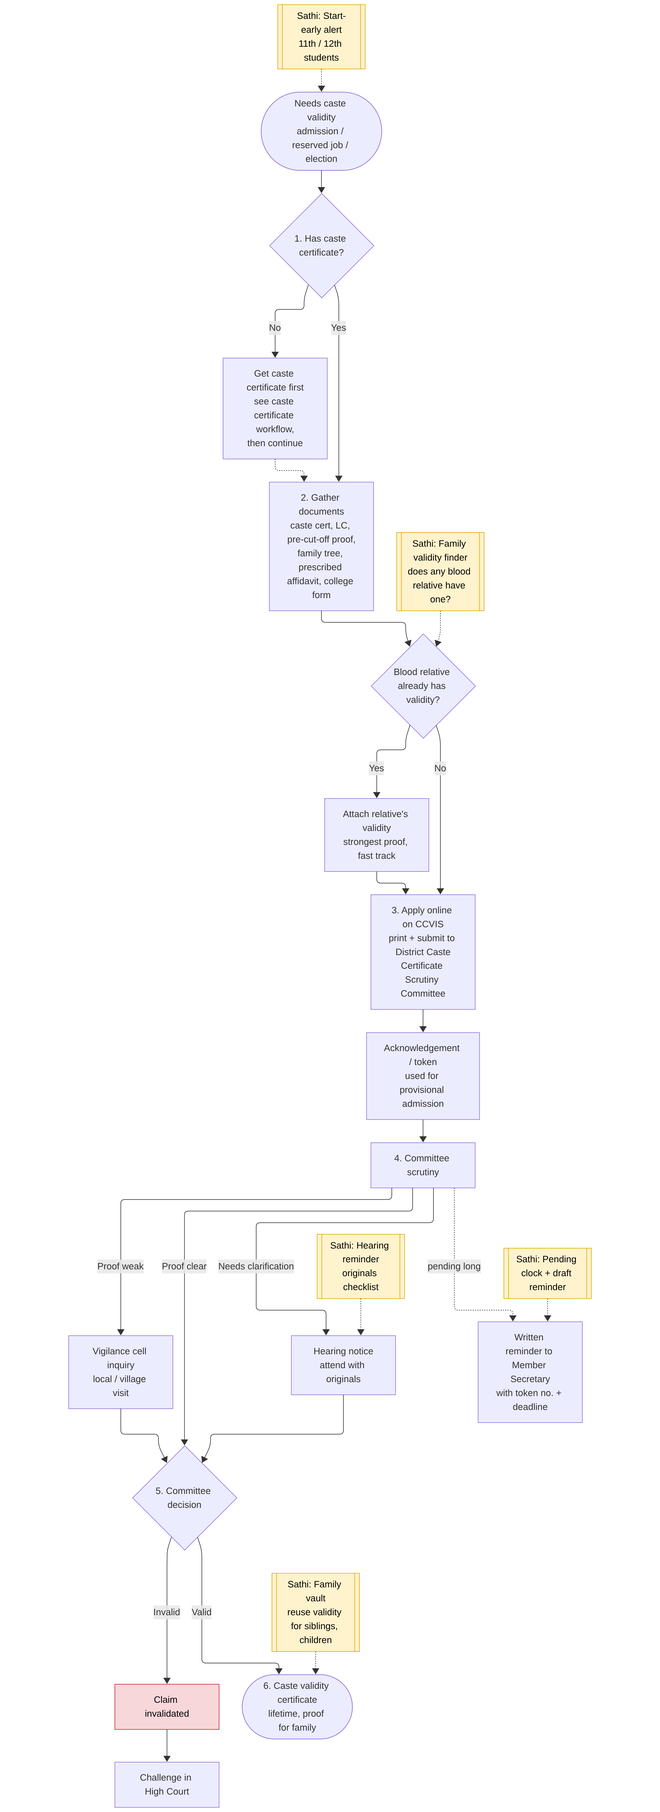
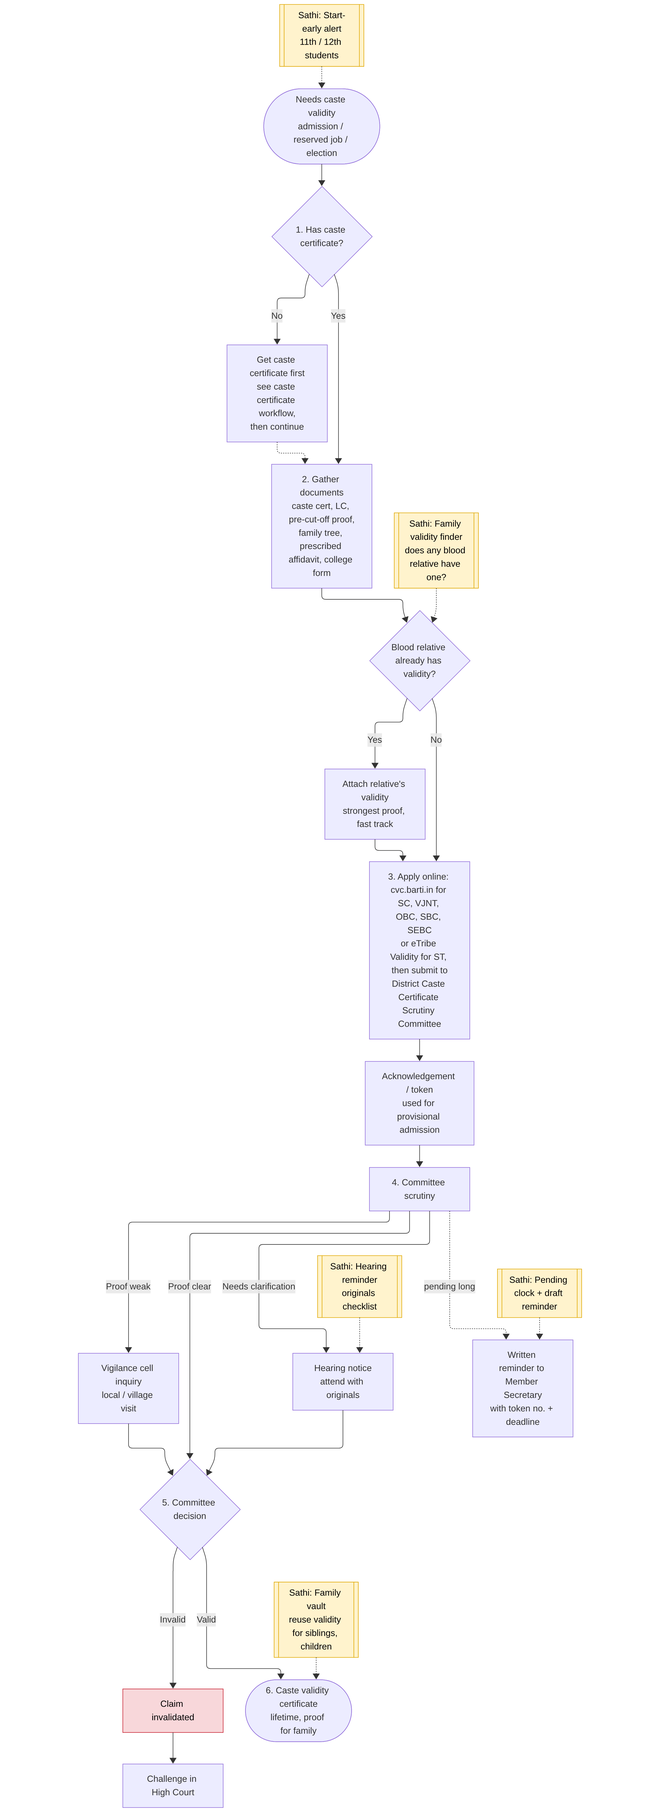
Verify batch 2 guides (caste, caste validity, NCL, ferfar) and apply corrections
Caste validity: new cvc.barti.in portal, ST via eTribe Validity, 3-month decision.
Ferfar: status via Aapli Chawadi; e-Hakk softened.
Caste / NCL: issuing officer wording softened.

Claude-Session: https://claude.ai/code/session_01DHsCyWmbgmnicfdMBb55Ki

diff --git a/docs/workflows/caste-validity-guide-mr.html b/docs/workflows/caste-validity-guide-mr.html
@@ -39,11 +39,11 @@
   <div class="step you"><div class="rail"><div class="num">1</div><div class="line"></div></div><div class="card"><div class="who">तुम्ही</div><div class="title">कधी लागते ते ओळखा</div><div class="body"><ul><li>अभियांत्रिकी, वैद्यकीय, औषधनिर्माणशास्त्र व इतर व्यावसायिक अभ्यासक्रमात राखीव जागेवर <b>प्रवेश</b></li><li>राखीव पदावर <b>सरकारी नोकरी</b></li><li>राखीव जागेवरून <b>निवडणूक</b></li></ul></div><div class="stuck"><b>सूचना:</b> विद्यार्थ्यांनो: <b>11 वी किंवा 12 वीत</b> असतानाच अर्ज करा, CET निकालानंतर नाही. याला काही महिने लागू शकतात.</div></div></div>
   <div class="step you"><div class="rail"><div class="num">2</div><div class="line"></div></div><div class="card"><div class="who">तुम्ही</div><div class="title">आधी जातीचा दाखला हवा</div><div class="body">तुमचा <b>जातीचा दाखला</b> खरा आहे का हे समिती तपासते. तो आधी तुमच्याकडे असला पाहिजे.</div><div class="stuck"><b>अडचण?</b> अजून जातीचा दाखला नाही? आधी <b>जातीचा दाखला मार्गदर्शक</b> पाहा.</div></div></div>
   <div class="step you"><div class="rail"><div class="num">3</div><div class="line"></div></div><div class="card"><div class="who">तुम्ही</div><div class="title">कागदपत्रे तयार ठेवा</div><div class="body"><ul><li>तुमचा जातीचा दाखला आणि शाळा सोडल्याचा दाखला</li><li>मानीव दिनांकापूर्वीचा <b>जुना जातीचा पुरावा</b> (जातीच्या दाखल्यासाठी वापरलेलाच)</li><li><b>वंशावळ</b> आणि विहित नमुन्यातील प्रतिज्ञापत्र</li><li>महाविद्यालयाचे बोनाफाईड / अर्ज (विद्यार्थ्यांसाठी)</li></ul></div><div class="stuck"><b>सूचना:</b> तुमच्या <b>वडिलांकडे, भावाकडे, बहिणीकडे किंवा काकांकडे</b> आधीच जात वैधता प्रमाणपत्र आहे का? ते जोडा. हा <b>सर्वात भक्कम पुरावा</b> आहे आणि प्रक्रिया खूप लवकर होते.</div></div></div>
-  <div class="step you"><div class="rail"><div class="num">4</div><div class="line"></div></div><div class="card"><div class="who">तुम्ही</div><div class="title">अर्ज करा आणि सादर करा</div><div class="body">राज्याच्या <b>जात वैधता पोर्टलवर (CCVIS)</b> ऑनलाइन अर्ज भरा, त्याची प्रिंट काढा आणि कागदपत्रांसह <b>जिल्हा जात प्रमाणपत्र पडताळणी समितीकडे</b> सादर करा (विद्यार्थी बहुतेक वेळा महाविद्यालयामार्फत सादर करतात).<br><b>पोच पावती / टोकन क्रमांक</b> जपून ठेवा.</div><div class="stuck"><b>सूचना:</b> प्रवेशासाठी महाविद्यालये सहसा <b>वैधता अर्जाची पोच पावती</b> पाहून तात्पुरता प्रवेश देतात. तुमच्या महाविद्यालयात विचारा.</div></div></div>
+  <div class="step you"><div class="rail"><div class="num">4</div><div class="line"></div></div><div class="card"><div class="who">तुम्ही</div><div class="title">अर्ज करा आणि सादर करा</div><div class="body">ऑनलाइन अर्ज करा: <b>अनुसूचित जाती, वि.जा./भ.ज., इ.मा.व., वि.मा.प्र., SEBC</b> साठी BARTI चे <b>cvc.barti.in</b> (नवीन पोर्टल, CCVIS ऐवजी); <b>अनुसूचित जमाती</b> साठी <b>ई-ट्राइब व्हॅलिडिटी</b> पोर्टल. त्याची प्रिंट काढा आणि कागदपत्रांसह <b>जिल्हा जात प्रमाणपत्र पडताळणी समितीकडे</b> सादर करा (विद्यार्थी बहुतेक वेळा महाविद्यालयामार्फत सादर करतात).<br><b>पोच पावती / टोकन क्रमांक</b> जपून ठेवा.</div><div class="stuck"><b>सूचना:</b> प्रवेशासाठी महाविद्यालये सहसा <b>वैधता अर्जाची पोच पावती</b> पाहून तात्पुरता प्रवेश देतात. तुमच्या महाविद्यालयात विचारा.</div></div></div>
   <div class="phase">अर्ज केल्यानंतर</div>
   <div class="step gov"><div class="rail"><div class="num">5</div><div class="line"></div></div><div class="card"><div class="who">पडताळणी समिती</div><div class="title">समितीकडून तपासणी</div><div class="body">समिती तुमची कागदपत्रे तपासते. जुना पुरावा कमकुवत असेल तर स्थानिक चौकशीसाठी <b>दक्षता पथक</b> पाठवू शकते, किंवा <b>सुनावणीसाठी</b> बोलावू शकते.</div><div class="stuck"><b>अडचण?</b> <b>सुनावणीची नोटीस</b> आली? ठरलेल्या तारखेला सर्व <b>मूळ कागदपत्रांसह</b> हजर राहा. सुनावणी चुकल्यास प्रकरण लांबते.</div></div></div>
   <div class="step gov"><div class="rail"><div class="num">6</div><div class="line"></div></div><div class="card"><div class="who">पडताळणी समिती</div><div class="title">समितीचा निर्णय</div><div class="body">समितीचे समाधान झाल्यास ती <b>जात वैधता प्रमाणपत्र</b> देते.</div><div class="stuck"><b>अडचण?</b> जातीचा दावा <b>अवैध</b> ठरला? या निर्णयाला <b>उच्च न्यायालयात</b> आव्हान देता येते. लवकर कायदेशीर सल्ला घ्या.</div></div></div>
   <div class="step done"><div class="rail"><div class="num">7</div></div><div class="card"><div class="who">पूर्ण</div><div class="title">वैधता प्रमाणपत्र मिळवा</div><div class="body">ते डाउनलोड करा किंवा घ्या. ते <b>आयुष्यभर</b> वैध असते.</div><div class="stuck"><b>सूचना:</b> तुमचे वैधता प्रमाणपत्र पुढे तुमच्या भाऊ, बहिणी आणि मुलांना अर्ज करताना <b>सर्वात भक्कम पुरावा</b> ठरते.</div></div></div>
-  <div class="rights"><div class="t">खूप दिवस प्रलंबित? पाठपुरावा करा.</div>टोकन क्रमांकासह जिल्हा जात प्रमाणपत्र पडताळणी समितीच्या <b>सदस्य सचिवांना लेखी स्मरणपत्र</b> द्या आणि <b>पोच</b> घ्या. प्रवेश किंवा नोकरीची अंतिम तारीख जवळ असेल तर ते लेखी नमूद करा.</div>
+  <div class="rights"><div class="t">खूप दिवस प्रलंबित? पाठपुरावा करा.</div>टोकन क्रमांकासह जिल्हा जात प्रमाणपत्र पडताळणी समितीच्या <b>सदस्य सचिवांना लेखी स्मरणपत्र</b> द्या आणि <b>पोच</b> घ्या. समितीने साधारण <b>3 महिन्यांत</b> निर्णय घ्यायला हवा. प्रवेश किंवा नोकरीची अंतिम तारीख जवळ असेल तर ते लेखी नमूद करा.</div>
   <div class="help"><b>लवकर सुरुवात करा</b>, साखळीतील हे सर्वात वेळखाऊ प्रमाणपत्र आहे: जातीचा दाखला → जात वैधता → प्रवेश / नोकरी<br><b>फक्त अधिकृत सरकारी वेबसाइट वापरा</b> · समिती "मॅनेज" करण्यासाठी कोणालाही पैसे देऊ नका</div>
 </div></body></html>

diff --git a/docs/workflows/ferfar-guide-mr.html b/docs/workflows/ferfar-guide-mr.html
@@ -37,12 +37,12 @@
   <div class="legend"><span><span class="dot" style="background:#2563eb"></span>हे तुम्ही करायचे</span><span><span class="dot" style="background:#7c3aed"></span>हे सरकार करते (तुम्ही वाट पाहा)</span><span><span class="dot" style="background:#059669"></span>७/१२ वर नाव</span></div>
   <div class="phase">सुरुवात</div>
   <div class="step you"><div class="rail"><div class="num">1</div><div class="line"></div></div><div class="card"><div class="who">तुम्ही</div><div class="title">फेरफाराचा प्रकार ओळखा</div><div class="body"><ul><li>नोंदणीकृत खरेदीखताने <b>जमीन खरेदी केली</b> → फेरफार <b>आपोआप</b> सुरू होतो. पायरी 3 वर जा.</li><li><b>वारसा</b>, <b>बक्षीसपत्र</b> किंवा <b>कौटुंबिक वाटणी</b> → <b>तुम्हाला अर्ज करावा लागेल</b>. पायरी 2 वर जा.</li></ul></div><div class="stuck"><b>सूचना:</b> जमीन खरेदी करताय? फेरफार तुमच्या दस्त नोंदणीशी जोडलेला असतो. तो "सुरू करण्यासाठी" कोणालाही पैसे देऊ नका.</div></div></div>
-  <div class="step you"><div class="rail"><div class="num">2</div><div class="line"></div></div><div class="card"><div class="who">तुम्ही</div><div class="title">कागदपत्रांसह अर्ज करा (वारसा / बक्षीस)</div><div class="body"><ul><li>मृत्यू दाखला (वारसासाठी)</li><li><b>सर्व</b> वारसांची यादी आणि त्यांचे आधार</li><li>सध्याचा 7/12 व 8-अ उतारा</li><li>वारसांबाबत स्वयंघोषणापत्र / प्रतिज्ञापत्र</li></ul>राज्याच्या ई-हक्क प्रणालीवर ऑनलाइन किंवा <b>तलाठी कार्यालयात</b> अर्ज करा.</div><div class="stuck"><b>अडचण?</b> प्रत्येक वारसाचे नाव असलेच पाहिजे. एखादा वारस सुटला तर तो नंतर हरकत घेऊन फेरफार थांबवू शकतो.</div></div></div>
+  <div class="step you"><div class="rail"><div class="num">2</div><div class="line"></div></div><div class="card"><div class="who">तुम्ही</div><div class="title">कागदपत्रांसह अर्ज करा (वारसा / बक्षीस)</div><div class="body"><ul><li>मृत्यू दाखला (वारसासाठी)</li><li><b>सर्व</b> वारसांची यादी आणि त्यांचे आधार</li><li>सध्याचा 7/12 व 8-अ उतारा</li><li>वारसांबाबत स्वयंघोषणापत्र / प्रतिज्ञापत्र</li></ul><b>तलाठी कार्यालयात</b> अर्ज करा, किंवा राज्याची ई-हक्क सेवा उपलब्ध असल्यास ऑनलाइन.</div><div class="stuck"><b>अडचण?</b> प्रत्येक वारसाचे नाव असलेच पाहिजे. एखादा वारस सुटला तर तो नंतर हरकत घेऊन फेरफार थांबवू शकतो.</div></div></div>
   <div class="phase">सरकारी प्रक्रिया</div>
   <div class="step gov"><div class="rail"><div class="num">3</div><div class="line"></div></div><div class="card"><div class="who">सरकार</div><div class="title">फेरफार नोंद तयार होते</div><div class="body">तलाठी <b>क्रमांकासह फेरफार नोंद</b> तयार करतात. खरेदीच्या बाबतीत माहिती दुय्यम निबंधक कार्यालयातून आपोआप येते.<br>तुमचा <b>फेरफार क्रमांक</b> लिहून ठेवा.</div><div class="stuck"><b>अडचण?</b> काही आठवड्यांनंतरही नोंद नाही? नोंदणीकृत दस्त क्रमांक घेऊन तलाठ्यांना भेटा.</div></div></div>
   <div class="step gov"><div class="rail"><div class="num">4</div><div class="line"></div></div><div class="card"><div class="who">सरकार</div><div class="title">संबंधितांना नोटीस</div><div class="body">विक्रेता / सर्व वारस / बँक यांना नोटीस जाते. त्यांना हरकत घेण्यासाठी <b>15 दिवस</b> मिळतात.</div><div class="stuck"><b>अडचण?</b> कोणी हरकत घेतली? हे वादाचे प्रकरण होते. मंडळ अधिकारी दोन्ही बाजू ऐकतात. कागदपत्रे तयार ठेवा. निर्णयाविरुद्ध उपविभागीय अधिकाऱ्यांकडे (SDO) अपील करता येते.</div></div></div>
   <div class="step gov"><div class="rail"><div class="num">5</div><div class="line"></div></div><div class="card"><div class="who">सरकार</div><div class="title">मंडळ अधिकाऱ्यांची मंजुरी</div><div class="body">नोटीस कालावधी संपल्यावर हरकत नसेल तर <b>मंडळ अधिकारी</b> फेरफार प्रमाणित करतात.</div><div class="stuck"><b>अडचण?</b> नामंजूर झाला? कारण वाचा, कागदपत्रे दुरुस्त करून पुन्हा अर्ज करा किंवा अपील करा.</div></div></div>
   <div class="step done"><div class="rail"><div class="num">6</div></div><div class="card"><div class="who">पूर्ण</div><div class="title">७/१२ वर तुमचे नाव</div><div class="body">आता 7/12 वर फेरफार क्रमांकासह तुमचे नाव दिसेल. <b>digitalsatbara.mahabhumi.gov.in</b> वरून <b>डिजिटल सही असलेला 7/12</b> डाउनलोड करा. तो <b>तलाठ्यांच्या शिक्क्याशिवाय वैध</b> आहे.</div></div></div>
   <div class="rights"><div class="t">नोटीस कालावधी संपला? आता वाट पाहण्याचे कारण नाही.</div>15 दिवस होऊन कोणतीही हरकत नसताना फेरफार प्रमाणित झाला नसेल, तर फेरफार क्रमांकासह <b>तहसीलदारांना लेखी अर्ज</b> द्या आणि <b>पोच</b> घ्या.</div>
-  <div class="help"><b>स्थिती तपासा:</b> महाभूमी पोर्टल (mahabhumi.gov.in) → फेरफार स्थिती (फेरफार क्रमांक)<br><b>"लवकर करण्यासाठी" पैसे देऊ नका</b>, 15 दिवसांची नोटीस हा कायदा आहे · <b>फक्त .gov.in वेबसाइट वापरा</b></div>
+  <div class="help"><b>नोटीस व स्थिती तपासा:</b> bhulekh.mahabhumi.gov.in वर <b>आपली चावडी</b> / प्रलंबित फेरफार (फेरफार क्रमांक, हरकतीची शेवटची तारीख)<br><b>"लवकर करण्यासाठी" पैसे देऊ नका</b>, 15 दिवसांची नोटीस हा कायदा आहे · <b>फक्त .gov.in वेबसाइट वापरा</b></div>
 </div></body></html>

diff --git a/docs/workflows/caste-validity-guide.html b/docs/workflows/caste-validity-guide.html
@@ -40,11 +40,11 @@
   <div class="step you"><div class="rail"><div class="num">1</div><div class="line"></div></div><div class="card"><div class="who">You</div><div class="title">Know when you need it <span class="mr">कधी लागते ते ओळखा</span></div><div class="body"><ul><li><b>Admission</b> on a reserved seat in engineering, medical, pharmacy and other professional courses</li><li><b>Government job</b> on a reserved post</li><li><b>Election</b> from a reserved seat</li></ul></div><div class="stuck"><b>Tip:</b> Students: apply in <b>11th or 12th</b>, not after the CET result. It can take months.</div></div></div>
   <div class="step you"><div class="rail"><div class="num">2</div><div class="line"></div></div><div class="card"><div class="who">You</div><div class="title">Have your caste certificate first <span class="mr">आधी जातीचा दाखला हवा</span></div><div class="body">The committee checks whether your <b>caste certificate</b> is genuine. You must already have it.</div><div class="stuck"><b>Stuck?</b> No caste certificate yet? See the <b>Caste Certificate guide</b> first.</div></div></div>
   <div class="step you"><div class="rail"><div class="num">3</div><div class="line"></div></div><div class="card"><div class="who">You</div><div class="title">Keep these papers ready <span class="mr">कागदपत्रे तयार ठेवा</span></div><div class="body"><ul><li>Your caste certificate and school leaving certificate</li><li>The <b>old proof of caste</b> before the cut-off date (same as for the caste certificate)</li><li><b>Family tree (वंशावळ)</b> and affidavit in the prescribed format</li><li>College bonafide / form (for students)</li></ul></div><div class="stuck"><b>Tip:</b> Does your <b>father, brother, sister or uncle (father's side)</b> already have a caste validity? Attach it. It is the <b>strongest proof</b> and makes the process much faster.</div></div></div>
-  <div class="step you"><div class="rail"><div class="num">4</div><div class="line"></div></div><div class="card"><div class="who">You</div><div class="title">Apply and submit <span class="mr">अर्ज करा आणि सादर करा</span></div><div class="body">Fill the form online on the state's <b>caste validity portal (CCVIS)</b>, print it, and submit it with your documents to the <b>District Caste Certificate Scrutiny Committee</b> (students often submit through their college).<br>Keep the <b>acknowledgement / token number</b> safe.</div><div class="stuck"><b>Tip:</b> For admissions, colleges usually accept the <b>acknowledgement of your validity application</b> for provisional admission. Ask your college.</div></div></div>
+  <div class="step you"><div class="rail"><div class="num">4</div><div class="line"></div></div><div class="card"><div class="who">You</div><div class="title">Apply and submit <span class="mr">अर्ज करा आणि सादर करा</span></div><div class="body">Apply online: <b>SC, VJ/NT, OBC, SBC, SEBC</b> on BARTI's <b>cvc.barti.in</b> (new portal, replaces CCVIS); <b>ST</b> on the <b>eTribe Validity</b> portal. Print and submit it with your documents to the <b>District Caste Certificate Scrutiny Committee</b> (students often submit through their college).<br>Keep the <b>acknowledgement / token number</b> safe.</div><div class="stuck"><b>Tip:</b> For admissions, colleges usually accept the <b>acknowledgement of your validity application</b> for provisional admission. Ask your college.</div></div></div>
   <div class="phase">After you apply</div>
   <div class="step gov"><div class="rail"><div class="num">5</div><div class="line"></div></div><div class="card"><div class="who">Scrutiny Committee</div><div class="title">Committee checks your case <span class="mr">समितीकडून तपासणी</span></div><div class="body">The committee examines your documents. If the old proof is weak, it may send a <b>vigilance team (दक्षता पथक)</b> to inquire locally, or call you for a <b>hearing</b>.</div><div class="stuck"><b>Stuck?</b> Got a <b>hearing notice</b>? Attend on the date with all <b>original documents</b>. Missing a hearing delays your case.</div></div></div>
   <div class="step gov"><div class="rail"><div class="num">6</div><div class="line"></div></div><div class="card"><div class="who">Scrutiny Committee</div><div class="title">Committee decides <span class="mr">समितीचा निर्णय</span></div><div class="body">If satisfied, the committee issues the <b>caste validity certificate</b>.</div><div class="stuck"><b>Stuck?</b> Caste claim <b>invalidated</b>? This decision can be challenged in the <b>High Court</b>. Get legal advice quickly.</div></div></div>
   <div class="step done"><div class="rail"><div class="num">7</div></div><div class="card"><div class="who">Done</div><div class="title">Collect your validity certificate <span class="mr">वैधता प्रमाणपत्र मिळवा</span></div><div class="body">Download or collect it. It is valid <b>for life</b>.</div><div class="stuck"><b>Tip:</b> Your validity becomes the <b>strongest proof</b> for your brothers, sisters and children when they apply.</div></div></div>
-  <div class="rights"><div class="t">Pending too long? Escalate.</div>Give a <b>written reminder to the Member Secretary</b> of the District Caste Certificate Scrutiny Committee with your token number and take an <b>acknowledgement (पोच)</b>. If an admission or job deadline is near, mention it in writing.</div>
+  <div class="rights"><div class="t">Pending too long? Escalate.</div>Give a <b>written reminder to the Member Secretary</b> of the District Caste Certificate Scrutiny Committee with your token number and take an <b>acknowledgement (पोच)</b>. The committee should normally decide within <b>about 3 months</b>. If an admission or job deadline is near, mention it in writing.</div>
   <div class="help"><b>Start early</b>, this is the slowest certificate in the chain: caste certificate → caste validity → admission / job<br><b>Use only official government websites</b> · Never pay anyone to "manage" the committee</div>
 </div></body></html>

diff --git a/docs/workflows/ferfar-guide.html b/docs/workflows/ferfar-guide.html
@@ -38,12 +38,12 @@
   <div class="legend"><span><span class="dot" style="background:#2563eb"></span>You do this</span><span><span class="dot" style="background:#7c3aed"></span>Government does this (you wait)</span><span><span class="dot" style="background:#059669"></span>Name on 7/12</span></div>
   <div class="phase">Start</div>
   <div class="step you"><div class="rail"><div class="num">1</div><div class="line"></div></div><div class="card"><div class="who">You</div><div class="title">Know your ferfar type <span class="mr">फेरफाराचा प्रकार ओळखा</span></div><div class="body"><ul><li><b>Bought land</b> with a registered sale deed → ferfar starts <b>automatically</b>. Go to step 3.</li><li><b>Inherited</b> (वारस), <b>gift</b> or <b>family partition</b> → <b>you must apply</b>. Go to step 2.</li></ul></div><div class="stuck"><b>Tip:</b> Buying land? The ferfar is linked to your registration. You do not need to pay anyone to "start" it.</div></div></div>
-  <div class="step you"><div class="rail"><div class="num">2</div><div class="line"></div></div><div class="card"><div class="who">You</div><div class="title">Apply with papers (inheritance / gift) <span class="mr">कागदपत्रांसह अर्ज करा</span></div><div class="body"><ul><li>Death certificate (for inheritance)</li><li>List of <b>all</b> legal heirs with their Aadhaar</li><li>Current 7/12 and 8A extract</li><li>Self-declaration / affidavit about the heirs</li></ul>Apply online on the state's e-Hakk system or at the <b>Talathi office</b>.</div><div class="stuck"><b>Stuck?</b> Every heir's name must be included. A missing heir can object later and stop the ferfar.</div></div></div>
+  <div class="step you"><div class="rail"><div class="num">2</div><div class="line"></div></div><div class="card"><div class="who">You</div><div class="title">Apply with papers (inheritance / gift) <span class="mr">कागदपत्रांसह अर्ज करा</span></div><div class="body"><ul><li>Death certificate (for inheritance)</li><li>List of <b>all</b> legal heirs with their Aadhaar</li><li>Current 7/12 and 8A extract</li><li>Self-declaration / affidavit about the heirs</li></ul>Apply at the <b>Talathi office</b>, or online where the state's e-Hakk service is available.</div><div class="stuck"><b>Stuck?</b> Every heir's name must be included. A missing heir can object later and stop the ferfar.</div></div></div>
   <div class="phase">Government process</div>
   <div class="step gov"><div class="rail"><div class="num">3</div><div class="line"></div></div><div class="card"><div class="who">Government</div><div class="title">Ferfar entry is created <span class="mr">फेरफार नोंद तयार होते</span></div><div class="body">The Talathi creates a <b>ferfar entry with a number</b>. For a sale, the details come automatically from the Sub-Registrar's office.<br>Note down your <b>ferfar number</b>.</div><div class="stuck"><b>Stuck?</b> No entry after a few weeks? Visit the Talathi with your registered document number.</div></div></div>
   <div class="step gov"><div class="rail"><div class="num">4</div><div class="line"></div></div><div class="card"><div class="who">Government</div><div class="title">Notice to everyone concerned <span class="mr">संबंधितांना नोटीस</span></div><div class="body">A notice goes to the seller / all heirs / bank. They get <b>15 days</b> to raise an objection (हरकत).</div><div class="stuck"><b>Stuck?</b> Someone objected? It becomes a dispute case. The Circle Officer hears both sides. Keep your papers ready. You can appeal the decision to the SDO.</div></div></div>
   <div class="step gov"><div class="rail"><div class="num">5</div><div class="line"></div></div><div class="card"><div class="who">Government</div><div class="title">Circle Officer approves <span class="mr">मंडळ अधिकाऱ्यांची मंजुरी</span></div><div class="body">After the notice period, if there is no objection, the <b>Circle Officer (मंडळ अधिकारी)</b> certifies the ferfar.</div><div class="stuck"><b>Stuck?</b> Rejected? Read the reason, fix the papers and apply again, or appeal.</div></div></div>
   <div class="step done"><div class="rail"><div class="num">6</div></div><div class="card"><div class="who">Done</div><div class="title">Your name is on the 7/12 <span class="mr">७/१२ वर तुमचे नाव</span></div><div class="body">The 7/12 now shows your name with the ferfar number. Download the <b>digitally signed 7/12</b> from <b>digitalsatbara.mahabhumi.gov.in</b>. It is valid <b>without a Talathi stamp</b>.</div></div></div>
   <div class="rights"><div class="t">Notice period over? No reason to wait.</div>If 15 days have passed with no objection and the ferfar is still not certified, give a <b>written application to the Tahsildar</b> with your ferfar number and take an <b>acknowledgement (पोच)</b>.</div>
-  <div class="help"><b>Check status:</b> Mahabhumi portal (mahabhumi.gov.in) → ferfar status (ferfar number)<br><b>Never pay to "speed up"</b>, the 15-day notice is the law · <b>Use only .gov.in websites</b></div>
+  <div class="help"><b>Check notice and status:</b> <b>Aapli Chawadi</b> / pending ferfar on bhulekh.mahabhumi.gov.in (ferfar number, objection last date)<br><b>Never pay to "speed up"</b>, the 15-day notice is the law · <b>Use only .gov.in websites</b></div>
 </div></body></html>

diff --git a/docs/workflows/ncl-certificate-guide-mr.html b/docs/workflows/ncl-certificate-guide-mr.html
@@ -42,7 +42,7 @@
   <div class="step you"><div class="rail"><div class="num">4</div><div class="line"></div></div><div class="card"><div class="who">तुम्ही</div><div class="title">अर्ज करा</div><div class="body">यापैकी कोणताही एक मार्ग:<ul><li><b>aaplesarkar.mahaonline.gov.in</b> → महसूल विभाग → नॉन-क्रिमीलेयर प्रमाणपत्र</li><li>जवळचे <b>आपले सरकार सेवा केंद्र</b>, किंवा महाविद्यालयातील शिबिर</li></ul>तुमचा <b>अर्ज क्रमांक</b> आणि दाखवलेली <b>कालमर्यादा (दिवस)</b> लिहून ठेवा.</div><div class="stuck"><b>सूचना:</b> <b>केंद्र</b> सरकारी नोकरी किंवा प्रवेशासाठी <b>केंद्राच्या नमुन्यातील</b> प्रमाणपत्र लागते. तुम्हाला कोणते हवे ते कार्यालयाला सांगा.</div></div></div>
   <div class="phase">अर्ज केल्यानंतर</div>
   <div class="step gov"><div class="rail"><div class="num">5</div><div class="line"></div></div><div class="card"><div class="who">सरकार</div><div class="title">कागदपत्रांची तपासणी</div><div class="body">तहसील / उपविभागीय कार्यालय तुमचा जातीचा दाखला आणि 3 वर्षांचे कौटुंबिक उत्पन्न तपासते.</div><div class="stuck"><b>अडचण?</b> अर्ज <b>परत पाठवला</b> (Sent back) असे दिसले? बहुतेक वेळा एखाद्या वर्षाचा उत्पन्नाचा पुरावा नसतो किंवा अस्पष्ट असतो. तो अपलोड करून पुन्हा सादर करा. <b>कार्यालयात जाण्याची गरज नाही.</b></div></div></div>
-  <div class="step gov"><div class="rail"><div class="num">6</div><div class="line"></div></div><div class="card"><div class="who">सरकार</div><div class="title">उपविभागीय अधिकाऱ्यांची मंजुरी</div><div class="body"><b>उपविभागीय अधिकारी (SDO)</b> मंजुरी देऊन <b>डिजिटल सही</b> करतात.</div></div></div>
+  <div class="step gov"><div class="rail"><div class="num">6</div><div class="line"></div></div><div class="card"><div class="who">सरकार</div><div class="title">उपविभागीय अधिकाऱ्यांची मंजुरी</div><div class="body"><b>उपविभागीय अधिकारी (SDO)</b> किंवा तुमच्या तालुक्यातील सक्षम अधिकारी मंजुरी देऊन <b>डिजिटल सही</b> करतात.</div></div></div>
   <div class="step done"><div class="rail"><div class="num">7</div></div><div class="card"><div class="who">पूर्ण</div><div class="title">प्रमाणपत्र डाउनलोड करा</div><div class="body">आपले सरकार वर लॉगिन करून डाउनलोड करा. त्यावर छापलेली <b>वैधता तारीख</b> तपासा.</div><div class="stuck"><b>अडचण?</b> जातीच्या दाखल्याप्रमाणे नाही, नॉन-क्रिमीलेयरची <b>मुदत संपते</b>. तारीख लिहून ठेवा आणि प्रवेश किंवा नोकरीच्या अर्जा<b>पूर्वी</b> नूतनीकरण करा.</div></div></div>
   <div class="rights"><div class="t">उशीर झाला? हा तुमचा हक्क आहे.</div>कालमर्यादा संपली असेल तर <b>महाराष्ट्र लोकसेवा हक्क अधिनियम, 2015</b> नुसार अर्ज क्रमांक वापरून आपले सरकार वर <b>प्रथम अपील</b> करता येते.</div>
   <div class="help"><b>मुदत संपण्यापूर्वी नूतनीकरण करा</b> · राज्य आणि केंद्राचे नमुने वेगळे आहेत<br><b>स्थिती तपासा:</b> आपले सरकार → Track your application · <b>फक्त .gov.in वेबसाइट वापरा</b></div>

diff --git a/docs/workflows/caste-certificate-guide-mr.html b/docs/workflows/caste-certificate-guide-mr.html
@@ -42,7 +42,7 @@
   <div class="step you"><div class="rail"><div class="num">4</div><div class="line"></div></div><div class="card"><div class="who">तुम्ही</div><div class="title">अर्ज करा</div><div class="body">यापैकी कोणताही एक मार्ग:<ul><li><b>aaplesarkar.mahaonline.gov.in</b> → महसूल विभाग → जातीचा दाखला</li><li>जवळचे <b>आपले सरकार सेवा केंद्र</b>, किंवा शाळा / महाविद्यालयातील विशेष शिबिर</li></ul>तुमचा <b>अर्ज क्रमांक</b> आणि दाखवलेली <b>कालमर्यादा (दिवस)</b> लिहून ठेवा.</div><div class="stuck"><b>सूचना:</b> फक्त ठरलेली फी भरा आणि पावती घ्या. जुने कागद "जुळवून देण्यासाठी" एजंटला पैसे देऊ नका.</div></div></div>
   <div class="phase">अर्ज केल्यानंतर</div>
   <div class="step gov"><div class="rail"><div class="num">5</div><div class="line"></div></div><div class="card"><div class="who">सरकार</div><div class="title">कागदपत्रांची तपासणी</div><div class="body">तहसील / उपविभागीय कार्यालय तुमचा जुना पुरावा आणि वंशावळ तपासते. स्थानिक चौकशी होऊ शकते.</div><div class="stuck"><b>अडचण?</b> अर्ज <b>परत पाठवला</b> (Sent back) असे दिसले? बहुतेक वेळा जुना पुरावा किंवा वंशावळ स्पष्ट नसते. स्पष्ट प्रत किंवा अधिक कागदपत्र अपलोड करून पुन्हा सादर करा.</div></div></div>
-  <div class="step gov"><div class="rail"><div class="num">6</div><div class="line"></div></div><div class="card"><div class="who">सरकार</div><div class="title">उपविभागीय अधिकाऱ्यांची मंजुरी</div><div class="body"><b>उपविभागीय अधिकारी (SDO)</b> मंजुरी देऊन <b>डिजिटल सही</b> करतात.</div></div></div>
+  <div class="step gov"><div class="rail"><div class="num">6</div><div class="line"></div></div><div class="card"><div class="who">सरकार</div><div class="title">उपविभागीय अधिकाऱ्यांची मंजुरी</div><div class="body"><b>उपविभागीय अधिकारी (SDO)</b> किंवा तुमच्या तालुक्यातील सक्षम अधिकारी मंजुरी देऊन <b>डिजिटल सही</b> करतात.</div></div></div>
   <div class="step done"><div class="rail"><div class="num">7</div></div><div class="card"><div class="who">पूर्ण</div><div class="title">दाखला डाउनलोड करा</div><div class="body">आपले सरकार वर लॉगिन करून दाखला डाउनलोड करा. त्यावर <b>डिजिटल सही</b> असते आणि त्याची <b>मुदत संपत नाही</b>. तो जपून ठेवा.</div><div class="stuck"><b>सूचना:</b> तुमचा दाखला पुढे तुमच्या <b>भाऊ, बहिणी आणि मुलांना</b> जात सिद्ध करण्यासाठी उपयोगी पडतो.</div></div></div>
   <div class="rights"><div class="t">उशीर झाला? हा तुमचा हक्क आहे.</div>कालमर्यादा संपली असेल तर <b>महाराष्ट्र लोकसेवा हक्क अधिनियम, 2015</b> नुसार अर्ज क्रमांक वापरून आपले सरकार वर <b>प्रथम अपील</b> करता येते.</div>
   <div class="help"><b>पुढे:</b> अभ्यासक्रम किंवा नोकरीसाठी लागत असल्यास <b>जात वैधता प्रमाणपत्रासाठी</b> लवकर अर्ज करा, त्याला वेळ लागतो<br><b>स्थिती तपासा:</b> आपले सरकार → Track your application · <b>फक्त .gov.in वेबसाइट वापरा</b></div>

diff --git a/docs/workflows/ncl-certificate-guide.html b/docs/workflows/ncl-certificate-guide.html
@@ -43,7 +43,7 @@
   <div class="step you"><div class="rail"><div class="num">4</div><div class="line"></div></div><div class="card"><div class="who">You</div><div class="title">Apply <span class="mr">अर्ज करा</span></div><div class="body">Choose any one:<ul><li><b>aaplesarkar.mahaonline.gov.in</b> → Revenue Department → Non-Creamy Layer Certificate</li><li>Nearest <b>Aaple Sarkar Seva Kendra</b>, or a camp at your college</li></ul>Note your <b>Application ID</b> and the <b>time limit (days)</b> shown.</div><div class="stuck"><b>Tip:</b> For <b>central</b> government jobs or admissions you need the <b>central-format</b> NCL. Tell the office which one you need.</div></div></div>
   <div class="phase">After you apply</div>
   <div class="step gov"><div class="rail"><div class="num">5</div><div class="line"></div></div><div class="card"><div class="who">Government</div><div class="title">Your papers are checked <span class="mr">कागदपत्रांची तपासणी</span></div><div class="body">The Tahsil / SDO office checks your caste certificate and 3 years of family income.</div><div class="stuck"><b>Stuck?</b> Status says <b>sent back</b>? Usually one year's income proof is missing or unclear. Upload it and resubmit. <b>No visit needed.</b></div></div></div>
-  <div class="step gov"><div class="rail"><div class="num">6</div><div class="line"></div></div><div class="card"><div class="who">Government</div><div class="title">SDO approves <span class="mr">उपविभागीय अधिकाऱ्यांची मंजुरी</span></div><div class="body">The <b>Sub-Divisional Officer (SDO)</b> approves and <b>signs digitally</b>.</div></div></div>
+  <div class="step gov"><div class="rail"><div class="num">6</div><div class="line"></div></div><div class="card"><div class="who">Government</div><div class="title">SDO approves <span class="mr">उपविभागीय अधिकाऱ्यांची मंजुरी</span></div><div class="body">The <b>Sub-Divisional Officer (SDO)</b>, or the competent officer in your taluka, approves and <b>signs digitally</b>.</div></div></div>
   <div class="step done"><div class="rail"><div class="num">7</div></div><div class="card"><div class="who">Done</div><div class="title">Download your certificate <span class="mr">प्रमाणपत्र डाउनलोड करा</span></div><div class="body">Log in to Aaple Sarkar and download it. Check the <b>validity date</b> printed on it.</div><div class="stuck"><b>Stuck?</b> Unlike the caste certificate, NCL <b>expires</b>. Note the date and renew <b>before</b> admission or job forms.</div></div></div>
   <div class="rights"><div class="t">Late? It's your right.</div>If the time limit has passed, you can file a <b>First Appeal</b> on Aaple Sarkar with your Application ID, under the <b>Maharashtra Right to Public Services Act, 2015</b>.</div>
   <div class="help"><b>Renew before it expires</b> · State and central formats are different<br><b>Check status:</b> Aaple Sarkar → Track your application · <b>Use only .gov.in websites</b></div>

diff --git a/docs/workflows/caste-certificate-guide.html b/docs/workflows/caste-certificate-guide.html
@@ -43,7 +43,7 @@
   <div class="step you"><div class="rail"><div class="num">4</div><div class="line"></div></div><div class="card"><div class="who">You</div><div class="title">Apply <span class="mr">अर्ज करा</span></div><div class="body">Choose any one:<ul><li><b>aaplesarkar.mahaonline.gov.in</b> → Revenue Department → Caste Certificate</li><li>Nearest <b>Aaple Sarkar Seva Kendra</b>, or a special camp at your school / college</li></ul>Note your <b>Application ID</b> and the <b>time limit (days)</b> shown.</div><div class="stuck"><b>Tip:</b> Pay only the fixed fee and take a receipt. Never pay an agent to "arrange" old documents.</div></div></div>
   <div class="phase">After you apply</div>
   <div class="step gov"><div class="rail"><div class="num">5</div><div class="line"></div></div><div class="card"><div class="who">Government</div><div class="title">Your papers are checked <span class="mr">कागदपत्रांची तपासणी</span></div><div class="body">The Tahsil / SDO office checks your old proof and family tree. A local inquiry may be done.</div><div class="stuck"><b>Stuck?</b> Status says <b>sent back</b>? Usually the old proof or family tree is unclear. Upload a clearer copy or an extra document and resubmit.</div></div></div>
-  <div class="step gov"><div class="rail"><div class="num">6</div><div class="line"></div></div><div class="card"><div class="who">Government</div><div class="title">SDO approves <span class="mr">उपविभागीय अधिकाऱ्यांची मंजुरी</span></div><div class="body">The <b>Sub-Divisional Officer (SDO)</b> approves and <b>signs digitally</b>.</div></div></div>
+  <div class="step gov"><div class="rail"><div class="num">6</div><div class="line"></div></div><div class="card"><div class="who">Government</div><div class="title">SDO approves <span class="mr">उपविभागीय अधिकाऱ्यांची मंजुरी</span></div><div class="body">The <b>Sub-Divisional Officer (SDO)</b>, or the competent officer in your taluka, approves and <b>signs digitally</b>.</div></div></div>
   <div class="step done"><div class="rail"><div class="num">7</div></div><div class="card"><div class="who">Done</div><div class="title">Download your certificate <span class="mr">दाखला डाउनलोड करा</span></div><div class="body">Log in to Aaple Sarkar and download it. It is <b>digitally signed</b> and does <b>not expire</b>. Keep it safe.</div><div class="stuck"><b>Tip:</b> Your certificate later helps your <b>brothers, sisters and children</b> prove their caste.</div></div></div>
   <div class="rights"><div class="t">Late? It's your right.</div>If the time limit has passed, you can file a <b>First Appeal</b> on Aaple Sarkar with your Application ID, under the <b>Maharashtra Right to Public Services Act, 2015</b>.</div>
   <div class="help"><b>Next:</b> apply for <b>Caste Validity</b> if your course or job needs it, early, as it takes time<br><b>Check status:</b> Aaple Sarkar → Track your application · <b>Use only .gov.in websites</b></div>

diff --git a/docs/workflows/caste_validity_content.py b/docs/workflows/caste_validity_content.py
@@ -24,7 +24,7 @@ T = {
     "<ul><li>Your caste certificate and school leaving certificate</li><li>The <b>old proof of caste</b> before the cut-off date (same as for the caste certificate)</li><li><b>Family tree (वंशावळ)</b> and affidavit in the prescribed format</li><li>College bonafide / form (for students)</li></ul>",
     ("tip", "Does your <b>father, brother, sister or uncle (father's side)</b> already have a caste validity? Attach it. It is the <b>strongest proof</b> and makes the process much faster.")),
    ("you", "Apply and submit", "अर्ज करा आणि सादर करा",
-    "Fill the form online on the state's <b>caste validity portal (CCVIS)</b>, print it, and submit it with your documents to the <b>District Caste Certificate Scrutiny Committee</b> (students often submit through their college).<br>Keep the <b>acknowledgement / token number</b> safe.",
+    "Apply online: <b>SC, VJ/NT, OBC, SBC, SEBC</b> on BARTI's <b>cvc.barti.in</b> (new portal, replaces CCVIS); <b>ST</b> on the <b>eTribe Validity</b> portal. Print and submit it with your documents to the <b>District Caste Certificate Scrutiny Committee</b> (students often submit through their college).<br>Keep the <b>acknowledgement / token number</b> safe.",
     ("tip", "For admissions, colleges usually accept the <b>acknowledgement of your validity application</b> for provisional admission. Ask your college.")),
    ("gov", "Committee checks your case", "समितीकडून तपासणी",
     "The committee examines your documents. If the old proof is weak, it may send a <b>vigilance team (दक्षता पथक)</b> to inquire locally, or call you for a <b>hearing</b>.",
@@ -37,7 +37,7 @@ T = {
     ("tip", "Your validity becomes the <b>strongest proof</b> for your brothers, sisters and children when they apply.")),
   ],
   rights_t="Pending too long? Escalate.",
-  rights="Give a <b>written reminder to the Member Secretary</b> of the District Caste Certificate Scrutiny Committee with your token number and take an <b>acknowledgement (पोच)</b>. If an admission or job deadline is near, mention it in writing.",
+  rights="Give a <b>written reminder to the Member Secretary</b> of the District Caste Certificate Scrutiny Committee with your token number and take an <b>acknowledgement (पोच)</b>. The committee should normally decide within <b>about 3 months</b>. If an admission or job deadline is near, mention it in writing.",
   help="<b>Start early</b>, this is the slowest certificate in the chain: caste certificate → caste validity → admission / job<br><b>Use only official government websites</b> · Never pay anyone to \"manage\" the committee",
  ),
  "mr": dict(
@@ -60,7 +60,7 @@ T = {
     "<ul><li>तुमचा जातीचा दाखला आणि शाळा सोडल्याचा दाखला</li><li>मानीव दिनांकापूर्वीचा <b>जुना जातीचा पुरावा</b> (जातीच्या दाखल्यासाठी वापरलेलाच)</li><li><b>वंशावळ</b> आणि विहित नमुन्यातील प्रतिज्ञापत्र</li><li>महाविद्यालयाचे बोनाफाईड / अर्ज (विद्यार्थ्यांसाठी)</li></ul>",
     ("tip", "तुमच्या <b>वडिलांकडे, भावाकडे, बहिणीकडे किंवा काकांकडे</b> आधीच जात वैधता प्रमाणपत्र आहे का? ते जोडा. हा <b>सर्वात भक्कम पुरावा</b> आहे आणि प्रक्रिया खूप लवकर होते.")),
    ("you", "अर्ज करा आणि सादर करा", None,
-    "राज्याच्या <b>जात वैधता पोर्टलवर (CCVIS)</b> ऑनलाइन अर्ज भरा, त्याची प्रिंट काढा आणि कागदपत्रांसह <b>जिल्हा जात प्रमाणपत्र पडताळणी समितीकडे</b> सादर करा (विद्यार्थी बहुतेक वेळा महाविद्यालयामार्फत सादर करतात).<br><b>पोच पावती / टोकन क्रमांक</b> जपून ठेवा.",
+    "ऑनलाइन अर्ज करा: <b>अनुसूचित जाती, वि.जा./भ.ज., इ.मा.व., वि.मा.प्र., SEBC</b> साठी BARTI चे <b>cvc.barti.in</b> (नवीन पोर्टल, CCVIS ऐवजी); <b>अनुसूचित जमाती</b> साठी <b>ई-ट्राइब व्हॅलिडिटी</b> पोर्टल. त्याची प्रिंट काढा आणि कागदपत्रांसह <b>जिल्हा जात प्रमाणपत्र पडताळणी समितीकडे</b> सादर करा (विद्यार्थी बहुतेक वेळा महाविद्यालयामार्फत सादर करतात).<br><b>पोच पावती / टोकन क्रमांक</b> जपून ठेवा.",
     ("tip", "प्रवेशासाठी महाविद्यालये सहसा <b>वैधता अर्जाची पोच पावती</b> पाहून तात्पुरता प्रवेश देतात. तुमच्या महाविद्यालयात विचारा.")),
    ("gov", "समितीकडून तपासणी", None,
     "समिती तुमची कागदपत्रे तपासते. जुना पुरावा कमकुवत असेल तर स्थानिक चौकशीसाठी <b>दक्षता पथक</b> पाठवू शकते, किंवा <b>सुनावणीसाठी</b> बोलावू शकते.",
@@ -73,7 +73,7 @@ T = {
     ("tip", "तुमचे वैधता प्रमाणपत्र पुढे तुमच्या भाऊ, बहिणी आणि मुलांना अर्ज करताना <b>सर्वात भक्कम पुरावा</b> ठरते.")),
   ],
   rights_t="खूप दिवस प्रलंबित? पाठपुरावा करा.",
-  rights="टोकन क्रमांकासह जिल्हा जात प्रमाणपत्र पडताळणी समितीच्या <b>सदस्य सचिवांना लेखी स्मरणपत्र</b> द्या आणि <b>पोच</b> घ्या. प्रवेश किंवा नोकरीची अंतिम तारीख जवळ असेल तर ते लेखी नमूद करा.",
+  rights="टोकन क्रमांकासह जिल्हा जात प्रमाणपत्र पडताळणी समितीच्या <b>सदस्य सचिवांना लेखी स्मरणपत्र</b> द्या आणि <b>पोच</b> घ्या. समितीने साधारण <b>3 महिन्यांत</b> निर्णय घ्यायला हवा. प्रवेश किंवा नोकरीची अंतिम तारीख जवळ असेल तर ते लेखी नमूद करा.",
   help="<b>लवकर सुरुवात करा</b>, साखळीतील हे सर्वात वेळखाऊ प्रमाणपत्र आहे: जातीचा दाखला → जात वैधता → प्रवेश / नोकरी<br><b>फक्त अधिकृत सरकारी वेबसाइट वापरा</b> · समिती \"मॅनेज\" करण्यासाठी कोणालाही पैसे देऊ नका",
  ),
 }

diff --git a/docs/workflows/ferfar_content.py b/docs/workflows/ferfar_content.py
@@ -18,7 +18,7 @@ T = {
     "<ul><li><b>Bought land</b> with a registered sale deed → ferfar starts <b>automatically</b>. Go to step 3.</li><li><b>Inherited</b> (वारस), <b>gift</b> or <b>family partition</b> → <b>you must apply</b>. Go to step 2.</li></ul>",
     ("tip", "Buying land? The ferfar is linked to your registration. You do not need to pay anyone to \"start\" it.")),
    ("you", "Apply with papers (inheritance / gift)", "कागदपत्रांसह अर्ज करा",
-    "<ul><li>Death certificate (for inheritance)</li><li>List of <b>all</b> legal heirs with their Aadhaar</li><li>Current 7/12 and 8A extract</li><li>Self-declaration / affidavit about the heirs</li></ul>Apply online on the state's e-Hakk system or at the <b>Talathi office</b>.",
+    "<ul><li>Death certificate (for inheritance)</li><li>List of <b>all</b> legal heirs with their Aadhaar</li><li>Current 7/12 and 8A extract</li><li>Self-declaration / affidavit about the heirs</li></ul>Apply at the <b>Talathi office</b>, or online where the state's e-Hakk service is available.",
     ("stuck", "Every heir's name must be included. A missing heir can object later and stop the ferfar.")),
    ("gov", "Ferfar entry is created", "फेरफार नोंद तयार होते",
     "The Talathi creates a <b>ferfar entry with a number</b>. For a sale, the details come automatically from the Sub-Registrar's office.<br>Note down your <b>ferfar number</b>.",
@@ -34,7 +34,7 @@ T = {
   ],
   rights_t="Notice period over? No reason to wait.",
   rights="If 15 days have passed with no objection and the ferfar is still not certified, give a <b>written application to the Tahsildar</b> with your ferfar number and take an <b>acknowledgement (पोच)</b>.",
-  help="<b>Check status:</b> Mahabhumi portal (mahabhumi.gov.in) → ferfar status (ferfar number)<br><b>Never pay to \"speed up\"</b>, the 15-day notice is the law · <b>Use only .gov.in websites</b>",
+  help="<b>Check notice and status:</b> <b>Aapli Chawadi</b> / pending ferfar on bhulekh.mahabhumi.gov.in (ferfar number, objection last date)<br><b>Never pay to \"speed up\"</b>, the 15-day notice is the law · <b>Use only .gov.in websites</b>",
  ),
  "mr": dict(
   lang="mr", font="'Noto Sans Devanagari','Noto Sans','FreeSans',sans-serif",
@@ -50,7 +50,7 @@ T = {
     "<ul><li>नोंदणीकृत खरेदीखताने <b>जमीन खरेदी केली</b> → फेरफार <b>आपोआप</b> सुरू होतो. पायरी 3 वर जा.</li><li><b>वारसा</b>, <b>बक्षीसपत्र</b> किंवा <b>कौटुंबिक वाटणी</b> → <b>तुम्हाला अर्ज करावा लागेल</b>. पायरी 2 वर जा.</li></ul>",
     ("tip", "जमीन खरेदी करताय? फेरफार तुमच्या दस्त नोंदणीशी जोडलेला असतो. तो \"सुरू करण्यासाठी\" कोणालाही पैसे देऊ नका.")),
    ("you", "कागदपत्रांसह अर्ज करा (वारसा / बक्षीस)", None,
-    "<ul><li>मृत्यू दाखला (वारसासाठी)</li><li><b>सर्व</b> वारसांची यादी आणि त्यांचे आधार</li><li>सध्याचा 7/12 व 8-अ उतारा</li><li>वारसांबाबत स्वयंघोषणापत्र / प्रतिज्ञापत्र</li></ul>राज्याच्या ई-हक्क प्रणालीवर ऑनलाइन किंवा <b>तलाठी कार्यालयात</b> अर्ज करा.",
+    "<ul><li>मृत्यू दाखला (वारसासाठी)</li><li><b>सर्व</b> वारसांची यादी आणि त्यांचे आधार</li><li>सध्याचा 7/12 व 8-अ उतारा</li><li>वारसांबाबत स्वयंघोषणापत्र / प्रतिज्ञापत्र</li></ul><b>तलाठी कार्यालयात</b> अर्ज करा, किंवा राज्याची ई-हक्क सेवा उपलब्ध असल्यास ऑनलाइन.",
     ("stuck", "प्रत्येक वारसाचे नाव असलेच पाहिजे. एखादा वारस सुटला तर तो नंतर हरकत घेऊन फेरफार थांबवू शकतो.")),
    ("gov", "फेरफार नोंद तयार होते", None,
     "तलाठी <b>क्रमांकासह फेरफार नोंद</b> तयार करतात. खरेदीच्या बाबतीत माहिती दुय्यम निबंधक कार्यालयातून आपोआप येते.<br>तुमचा <b>फेरफार क्रमांक</b> लिहून ठेवा.",
@@ -66,6 +66,6 @@ T = {
   ],
   rights_t="नोटीस कालावधी संपला? आता वाट पाहण्याचे कारण नाही.",
   rights="15 दिवस होऊन कोणतीही हरकत नसताना फेरफार प्रमाणित झाला नसेल, तर फेरफार क्रमांकासह <b>तहसीलदारांना लेखी अर्ज</b> द्या आणि <b>पोच</b> घ्या.",
-  help="<b>स्थिती तपासा:</b> महाभूमी पोर्टल (mahabhumi.gov.in) → फेरफार स्थिती (फेरफार क्रमांक)<br><b>\"लवकर करण्यासाठी\" पैसे देऊ नका</b>, 15 दिवसांची नोटीस हा कायदा आहे · <b>फक्त .gov.in वेबसाइट वापरा</b>",
+  help="<b>नोटीस व स्थिती तपासा:</b> bhulekh.mahabhumi.gov.in वर <b>आपली चावडी</b> / प्रलंबित फेरफार (फेरफार क्रमांक, हरकतीची शेवटची तारीख)<br><b>\"लवकर करण्यासाठी\" पैसे देऊ नका</b>, 15 दिवसांची नोटीस हा कायदा आहे · <b>फक्त .gov.in वेबसाइट वापरा</b>",
  ),
 }

diff --git a/docs/workflows/ncl_certificate_content.py b/docs/workflows/ncl_certificate_content.py
@@ -29,7 +29,7 @@ T = {
     "The Tahsil / SDO office checks your caste certificate and 3 years of family income.",
     ("stuck", "Status says <b>sent back</b>? Usually one year's income proof is missing or unclear. Upload it and resubmit. <b>No visit needed.</b>")),
    ("gov", "SDO approves", "उपविभागीय अधिकाऱ्यांची मंजुरी",
-    "The <b>Sub-Divisional Officer (SDO)</b> approves and <b>signs digitally</b>.", None),
+    "The <b>Sub-Divisional Officer (SDO)</b>, or the competent officer in your taluka, approves and <b>signs digitally</b>.", None),
    ("done", "Download your certificate", "प्रमाणपत्र डाउनलोड करा",
     "Log in to Aaple Sarkar and download it. Check the <b>validity date</b> printed on it.",
     ("stuck", "Unlike the caste certificate, NCL <b>expires</b>. Note the date and renew <b>before</b> admission or job forms.")),
@@ -63,7 +63,7 @@ T = {
     "तहसील / उपविभागीय कार्यालय तुमचा जातीचा दाखला आणि 3 वर्षांचे कौटुंबिक उत्पन्न तपासते.",
     ("stuck", "अर्ज <b>परत पाठवला</b> (Sent back) असे दिसले? बहुतेक वेळा एखाद्या वर्षाचा उत्पन्नाचा पुरावा नसतो किंवा अस्पष्ट असतो. तो अपलोड करून पुन्हा सादर करा. <b>कार्यालयात जाण्याची गरज नाही.</b>")),
    ("gov", "उपविभागीय अधिकाऱ्यांची मंजुरी", None,
-    "<b>उपविभागीय अधिकारी (SDO)</b> मंजुरी देऊन <b>डिजिटल सही</b> करतात.", None),
+    "<b>उपविभागीय अधिकारी (SDO)</b> किंवा तुमच्या तालुक्यातील सक्षम अधिकारी मंजुरी देऊन <b>डिजिटल सही</b> करतात.", None),
    ("done", "प्रमाणपत्र डाउनलोड करा", None,
     "आपले सरकार वर लॉगिन करून डाउनलोड करा. त्यावर छापलेली <b>वैधता तारीख</b> तपासा.",
     ("stuck", "जातीच्या दाखल्याप्रमाणे नाही, नॉन-क्रिमीलेयरची <b>मुदत संपते</b>. तारीख लिहून ठेवा आणि प्रवेश किंवा नोकरीच्या अर्जा<b>पूर्वी</b> नूतनीकरण करा.")),

diff --git a/docs/workflows/caste_certificate_content.py b/docs/workflows/caste_certificate_content.py
@@ -29,7 +29,7 @@ T = {
     "The Tahsil / SDO office checks your old proof and family tree. A local inquiry may be done.",
     ("stuck", "Status says <b>sent back</b>? Usually the old proof or family tree is unclear. Upload a clearer copy or an extra document and resubmit.")),
    ("gov", "SDO approves", "उपविभागीय अधिकाऱ्यांची मंजुरी",
-    "The <b>Sub-Divisional Officer (SDO)</b> approves and <b>signs digitally</b>.", None),
+    "The <b>Sub-Divisional Officer (SDO)</b>, or the competent officer in your taluka, approves and <b>signs digitally</b>.", None),
    ("done", "Download your certificate", "दाखला डाउनलोड करा",
     "Log in to Aaple Sarkar and download it. It is <b>digitally signed</b> and does <b>not expire</b>. Keep it safe.",
     ("tip", "Your certificate later helps your <b>brothers, sisters and children</b> prove their caste.")),
@@ -63,7 +63,7 @@ T = {
     "तहसील / उपविभागीय कार्यालय तुमचा जुना पुरावा आणि वंशावळ तपासते. स्थानिक चौकशी होऊ शकते.",
     ("stuck", "अर्ज <b>परत पाठवला</b> (Sent back) असे दिसले? बहुतेक वेळा जुना पुरावा किंवा वंशावळ स्पष्ट नसते. स्पष्ट प्रत किंवा अधिक कागदपत्र अपलोड करून पुन्हा सादर करा.")),
    ("gov", "उपविभागीय अधिकाऱ्यांची मंजुरी", None,
-    "<b>उपविभागीय अधिकारी (SDO)</b> मंजुरी देऊन <b>डिजिटल सही</b> करतात.", None),
+    "<b>उपविभागीय अधिकारी (SDO)</b> किंवा तुमच्या तालुक्यातील सक्षम अधिकारी मंजुरी देऊन <b>डिजिटल सही</b> करतात.", None),
    ("done", "दाखला डाउनलोड करा", None,
     "आपले सरकार वर लॉगिन करून दाखला डाउनलोड करा. त्यावर <b>डिजिटल सही</b> असते आणि त्याची <b>मुदत संपत नाही</b>. तो जपून ठेवा.",
     ("tip", "तुमचा दाखला पुढे तुमच्या <b>भाऊ, बहिणी आणि मुलांना</b> जात सिद्ध करण्यासाठी उपयोगी पडतो.")),
